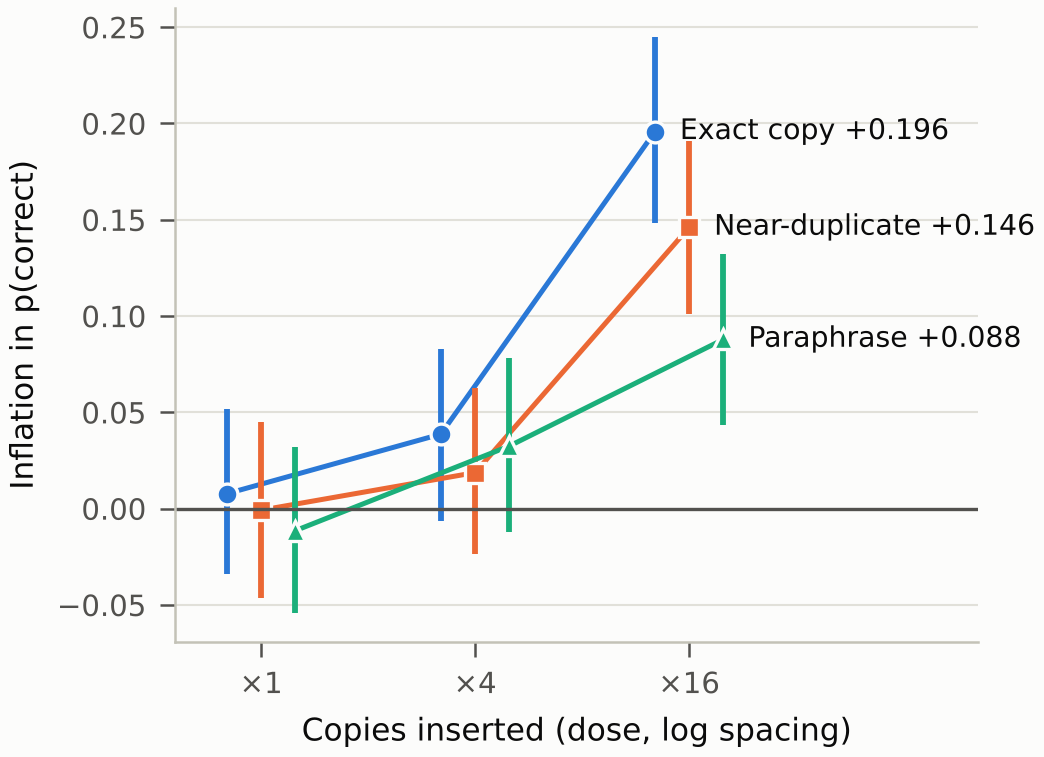
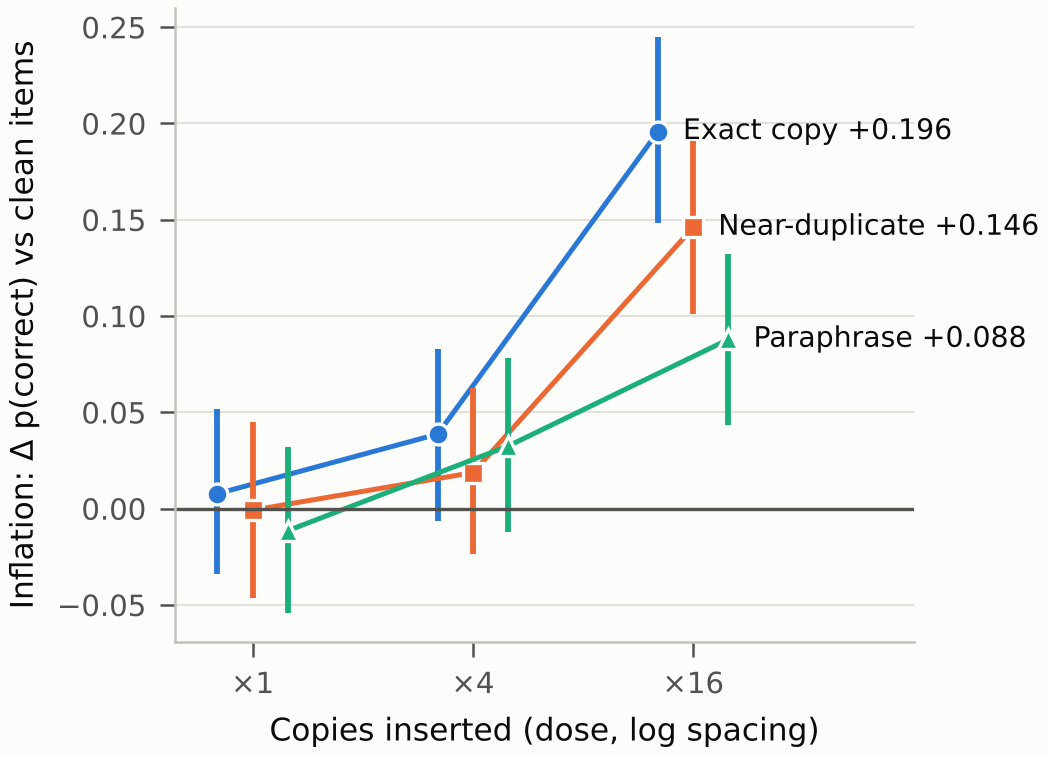
Figures: second-reader fixes (print-size text, symmetric AUROC scale, overplotting, gridlines below data, split literature and agreement figures)
- All figures drawn at their printed width so no text falls below 7 pt
- AUROC heatmap: colour scale symmetric about chance, axis titles added
- Scatter: transparency, legend matches the plotted colours, within-cell rho shown
- Within-cell forest plot: detectors named on rows, per-cell mean marked
- Cell-vs-item figure uses p(correct) like the other inflation figures
- Gridlines drawn below data everywhere; darker greys for contrast
- Literature comparison and detector agreement are now separate figures (fig10, fig14)

diff --git a/dcl/figures.py b/dcl/figures.py
@@ -36,7 +36,7 @@ DET_LS = dict(zip(DETECTORS.values(), ["-", (0, (4, 1.5)), (0, (1, 1)), (0, (5, 
 OVERLAP_HATCH = {"exact": "", "near_dup": "////", "paraphrase": "...."}
 BLUES = LinearSegmentedColormap.from_list("blues", ["#cde2fb", "#86b6ef", "#3987e5", "#1c5cab", "#0d366b"])
 DIVERGE = LinearSegmentedColormap.from_list("div", ["#e34948", "#f0efec", "#2a78d6"])
-REF_GREY, CTX_GREY, LIGHT_GREY = "#a3a29b", "#d4d3cd", "#e9e8e4"
+REF_GREY, CTX_GREY, LIGHT_GREY = "#a3a29b", "#c3c2b7", "#d9d8d2"
 CRITICAL = "#d03b3b"
 FULL, COL = 7.16, 3.5
 
@@ -47,7 +47,7 @@ def _tint(hexcol, f):
     return tuple(a * (1 - f) + b * f)
 
 
-DOSE_TINT = {1: 0.62, 4: 0.32, 16: 0.0}
+DOSE_TINT = {1: 0.5, 4: 0.25, 16: 0.0}
 
 plt.rcParams.update({
     "figure.facecolor": SURFACE, "axes.facecolor": SURFACE, "savefig.facecolor": SURFACE,
@@ -56,7 +56,7 @@ plt.rcParams.update({
     "axes.edgecolor": AXIS, "axes.labelcolor": INK, "xtick.color": INK2, "ytick.color": INK2,
     "axes.spines.top": False, "axes.spines.right": False, "axes.grid": True, "grid.color": GRID,
     "grid.linewidth": 0.5, "axes.linewidth": 0.6, "xtick.major.width": 0.6, "ytick.major.width": 0.6,
-    "legend.frameon": False, "lines.linewidth": 1.6, "figure.constrained_layout.use": True,
+    "legend.frameon": False, "axes.axisbelow": True, "lines.linewidth": 1.6, "figure.constrained_layout.use": True,
     "pdf.fonttype": 42, "ps.fonttype": 42,
 })
 
@@ -94,7 +94,7 @@ def _heat(fig, ax, M, fmt, cmap, vmin, vmax, cbar_label):
         sp.set_visible(False)
     for (i, j), v in np.ndenumerate(M.to_numpy()):
         frac = (v - vmin) / max(1e-9, vmax - vmin)
-        ax.text(j, i, fmt.format(v), ha="center", va="center", fontsize=7.5, color="white" if frac > 0.6 else INK)
+        ax.text(j, i, fmt.format(v), ha="center", va="center", fontsize=7.5, color="white" if abs(frac - 0.5) > 0.36 else INK)
     _cbar(fig, im, ax, cbar_label)
 
 
@@ -105,7 +105,8 @@ def fig_inflation_heatmap(cell, out):
     for ax, col, fmt, lab, title in [(axes[0], "infl_p", "{:+.3f}", "p(correct)", "Inflation in p(correct)"),
                                      (axes[1], "infl_acc_pts", "{:+.1f}", "accuracy points", "Inflation in accuracy points")]:
         M = _grid(c, col)
-        _heat(fig, ax, M, fmt, BLUES, min(0, float(M.min().min())), float(M.max().max()), lab)
+        m = float(np.abs(M.to_numpy()).max())
+        _heat(fig, ax, M, fmt, DIVERGE, -m, m, lab)
         ax.set_title(title, loc="left")
         ax.set_xlabel("Copies inserted (dose)")
     return _save(fig, out, "fig01_inflation_heatmap")
@@ -125,20 +126,21 @@ def fig_inflation_dose(cell, out):
                     xytext=(6, 0), textcoords="offset points", va="center", fontsize=6.8, color=INK)
     ax.axhline(0, color=INK2, lw=0.8)
     ax.set_xticks([0, 1, 2], ["×1", "×4", "×16"])
-    ax.set_xlim(-0.4, 3.35)
+    ax.set_xlim(-0.35, 3.0)
     ax.set_xlabel("Copies inserted (dose, log spacing)")
-    ax.set_ylabel("Inflation in p(correct)")
+    ax.set_ylabel("Inflation: Δ p(correct) vs clean items")
     ax.grid(axis="x", visible=False)
     return _save(fig, out, "fig02_inflation_vs_dose")
 
 
 # ------------------------------------------------------------------ RQ2 detection
 def fig_auroc_heatmap(det, out):
+    """Diverging scale symmetric about chance (0.5); colour steps are equal on both sides."""
     dets = list(DETECTORS.values())
     piv = det.pivot_table(index="detector", columns="group", values="auroc").reindex(index=dets, columns=C.CELLS)
-    fig, ax = plt.subplots(figsize=(FULL, 2.05))
+    fig, ax = plt.subplots(figsize=(5.9, 2.1))
     M = piv.to_numpy()
-    im = ax.imshow(M, cmap=DIVERGE, norm=TwoSlopeNorm(vcenter=0.5, vmin=0.3, vmax=1.0), aspect="auto")
+    im = ax.imshow(M, cmap=DIVERGE, vmin=0.1, vmax=0.9, aspect="auto")
     ax.set_xticks(range(9), ["×1", "×4", "×16"] * 3)
     ax.set_yticks(range(len(dets)), dets)
     ax.grid(False)
@@ -146,20 +148,22 @@ def fig_auroc_heatmap(det, out):
     for sp in ax.spines.values():
         sp.set_visible(False)
     for (i, j), v in np.ndenumerate(M):
-        ax.text(j, i, f"{v:.2f}", ha="center", va="center", fontsize=7, color="white" if v > 0.82 else INK)
+        ax.text(j, i, f"{v:.2f}", ha="center", va="center", fontsize=7, color="white" if v > 0.79 else INK)
     for b in (2.5, 5.5):
         ax.axvline(b, color=SURFACE, lw=3)
     for k, o in enumerate(C.OVERLAPS):
-        ax.text(3 * k + 1, -0.75, OVERLAP_LAB[o], ha="center", va="bottom", fontsize=7.5, fontweight="bold",
-                color=INK)
+        ax.text(3 * k + 1, -0.75, OVERLAP_LAB[o], ha="center", va="bottom", fontsize=7.5, fontweight="bold", color=INK)
     ax.set_ylim(len(dets) - 0.5, -1.05)
-    _cbar(fig, im, ax, "AUROC (0.5 = chance)")
+    ax.set_xlabel("Copies inserted (dose) within each overlap type")
+    ax.set_ylabel("Detector")
+    cb = _cbar(fig, im, ax, "AUROC (0.5 = chance)")
+    cb.set_ticks([0.1, 0.3, 0.5, 0.7, 0.9])
     return _save(fig, out, "fig03_auroc_heatmap")
 
 
 def fig_roc_curves(avg, out):
     clean = avg[avg["group"] == "clean"]
-    fig, axes = plt.subplots(1, 3, figsize=(FULL, 2.55), sharey=True)
+    fig, axes = plt.subplots(1, 3, figsize=(5.6, 2.35), sharey=True)
     for ax, o in zip(axes, C.OVERLAPS):
         d = avg[avg["group"] == f"{o}_x16"]
         y = np.r_[np.ones(len(d)), np.zeros(len(clean))]
@@ -169,67 +173,79 @@ def fig_roc_curves(avg, out):
         ax.plot([0, 1], [0, 1], color=MUTED, lw=0.8, ls=(0, (3, 2)))
         ax.set_title(f"{OVERLAP_LAB[o]}, ×16", loc="left")
         ax.set_xlabel("False positive rate")
-        ax.set_aspect("equal")
+        ax.set_xlim(0, 1); ax.set_ylim(0, 1)
+        ax.set_xticks([0, 0.5, 1]); ax.set_yticks([0, 0.5, 1])
+        ax.set_box_aspect(1)
     axes[0].set_ylabel("True positive rate")
-    axes[-1].legend(loc="lower right", handlelength=1.4)
+    fig.legend(*axes[0].get_legend_handles_labels(), loc="outside lower center", ncol=5, handlelength=2.2)
     return _save(fig, out, "fig04_roc_curves")
 
 
 # ------------------------------------------------------------------ RQ3 item-level link
 def fig_scatter(avg, out, det="det_minkpp"):
     """Hue = overlap type, lightness = dose; ink line = mean inflation in score deciles (all doses)."""
-    fig, axes = plt.subplots(1, 3, figsize=(FULL, 2.55), sharey=True)
+    from matplotlib.legend_handler import HandlerTuple
+    fig, axes = plt.subplots(1, 3, figsize=(FULL, 2.6), sharey=True)
     lab = DETECTORS[det]
     shown = avg[avg["group"].isin(["clean"] + [f"{o}_x{d}" for o in C.OVERLAPS for d in C.DOSES])]
     lo, hi = shown[det].quantile([0.005, 0.995])
     pad = 0.05 * (hi - lo)
     cl = avg[avg["group"] == "clean"]
     for ax, o in zip(axes, C.OVERLAPS):
-        ax.scatter(cl[det], cl["infl_p"], s=5, color=LIGHT_GREY, edgecolor="none", label="clean", zorder=1)
+        ax.scatter(cl[det], cl["infl_p"], s=4, color=REF_GREY, alpha=0.35, edgecolor="none", zorder=1)
         cont = avg[avg["overlap"] == o]
         for dose in C.DOSES:
             d = cont[cont["dose"] == dose]
-            ax.scatter(d[det], d["infl_p"], s=7, color=_tint(OVERLAP_COL[o], DOSE_TINT[dose]), edgecolor="none",
-                       label=f"×{dose}", zorder=2 + dose / 100)
+            ax.scatter(d[det], d["infl_p"], s=5, color=_tint(OVERLAP_COL[o], DOSE_TINT[dose]), alpha=0.6,
+                       edgecolor="none", zorder=2 + dose / 100)
         q = pd.qcut(cont[det], 10, labels=False, duplicates="drop")
         b = cont.groupby(q).agg(x=(det, "median"), y=("infl_p", "mean"))
-        ax.plot(b["x"], b["y"], color=INK, lw=1.3, marker="o", ms=2.8, zorder=5, label="decile mean")
+        ax.plot(b["x"], b["y"], color=INK, lw=1.4, marker="o", ms=2.8, zorder=5)
         ax.axhline(0, color=INK2, lw=0.7, zorder=0)
-        rho = stats.spearmanr(cont[det], cont["infl_p"]).statistic
-        ax.set_title(f"{OVERLAP_LAB[o]}  (pooled ρ = {rho:.2f})", loc="left")
+        within = np.mean([stats.spearmanr(g[det], g["infl_p"]).statistic for _, g in cont.groupby("dose")])
+        ax.set_title(OVERLAP_LAB[o], loc="left")
+        ax.text(0.02, 0.97, f"mean within-cell ρ = {within:.2f}", transform=ax.transAxes, va="top", fontsize=7,
+                color=INK, bbox=dict(boxstyle="round,pad=0.2", fc=SURFACE, ec="none", alpha=0.85), zorder=6)
         ax.set_xlabel(f"{lab} score (higher = 'seen')")
         ax.set_xlim(lo - pad, hi + pad)
-    axes[0].set_ylabel("Item inflation in p(correct)")
-    h = [plt.Line2D([], [], ls="", marker="o", ms=4, color=LIGHT_GREY, label="clean (never inserted)")]
-    h += [plt.Line2D([], [], ls="", marker="o", ms=4, color=_tint(MUTED, DOSE_TINT[d]) if d < 16 else INK2,
-                     label=f"×{d}") for d in C.DOSES]
-    h += [plt.Line2D([], [], color=INK, lw=1.3, marker="o", ms=2.8, label="decile mean")]
-    fig.legend(handles=h, loc="outside lower center", ncol=5, handletextpad=0.3, columnspacing=1.2,
-               title="dose = lightness of the panel colour", title_fontsize=6.5)
+    axes[0].set_ylabel("Item inflation, Δ p(correct)")
+    mk = lambda c: plt.Line2D([], [], ls="", marker="o", ms=4, color=c)
+    h = [mk(REF_GREY)] + [tuple(mk(_tint(OVERLAP_COL[o], DOSE_TINT[d])) for o in C.OVERLAPS) for d in C.DOSES]
+    h += [plt.Line2D([], [], color=INK, lw=1.4, marker="o", ms=2.8)]
+    fig.legend(h, ["clean (never inserted)", "×1", "×4", "×16", "decile mean"], loc="outside lower center", ncol=5,
+               handler_map={tuple: HandlerTuple(ndivide=None, pad=0.2)}, handletextpad=0.4, columnspacing=1.4)
     return _save(fig, out, f"fig05_scatter_{det.replace('det_', '')}")
 
 
 def fig_forest(agr, out):
     w = agr[agr["scope"] == "within cell"].copy()
-    fig, axes = plt.subplots(1, 3, figsize=(FULL, 2.7), sharex=True, sharey=True)
+    fig, axes = plt.subplots(1, 3, figsize=(5.9, 3.3), sharex=True, sharey=True)
     dets = list(DETECTORS.values())
+    step = len(dets) + 1.5
     for ax, o in zip(axes, C.OVERLAPS):
         for k, dose in enumerate(C.DOSES):
             g = f"{o}_x{dose}"
+            sub = w[w["group"] == g]
             for j, dl in enumerate(dets):
-                r = w[(w["group"] == g) & (w["detector"] == dl)].iloc[0]
-                y = k * (len(dets) + 1.5) + j
+                r = sub[sub["detector"] == dl].iloc[0]
+                y = k * step + j
                 ax.plot([r["rho_lo"], r["rho_hi"]], [y, y], color=DET_COL[dl], lw=1.3)
                 ax.plot(r["rho"], y, DET_MARK[dl], color=DET_COL[dl], ms=3.8, mec=SURFACE, mew=0.6)
+            m = sub["rho"].mean()
+            ax.plot([m, m], [k * step - 0.6, k * step + len(dets) - 0.4], color=INK, lw=1.0)
         ax.axvline(0, color=INK2, lw=0.8)
-        ax.set_yticks([k * (len(dets) + 1.5) + 2 for k in range(3)], [f"×{d}" for d in C.DOSES])
         ax.set_title(OVERLAP_LAB[o], loc="left")
-        ax.set_xlabel("Spearman ρ, score vs inflation")
+        ax.set_xlabel("Spearman ρ")
         ax.grid(axis="y", visible=False)
         ax.tick_params(axis="y", length=0)
-        ax.invert_yaxis()
-    handles = [plt.Line2D([], [], color=DET_COL[d], marker=DET_MARK[d], ms=3.8, lw=1.3, label=d) for d in dets]
-    fig.legend(handles=handles, loc="outside lower center", ncol=5)
+    ticks = [k * step + j for k in range(3) for j in range(len(dets))]
+    axes[0].set_yticks(ticks, [f"{d}" for _ in C.DOSES for d in dets], fontsize=6.5)
+    axes[0].invert_yaxis()
+    for k, dose in enumerate(C.DOSES):
+        axes[-1].text(1.03, k * step + 2, f"×{dose}", transform=axes[-1].get_yaxis_transform(), va="center",
+                      fontsize=7.5, fontweight="bold", color=INK)
+    fig.legend(handles=[plt.Line2D([], [], color=INK, lw=1.0, label="mean of the 5 detectors in that cell")],
+               loc="outside lower center", fontsize=6.5, handlelength=1.2)
     return _save(fig, out, "fig06_within_cell_rho")
 
 
@@ -241,15 +257,18 @@ def fig_cell_vs_item(cell, det, agr, out, det_name="Min-K%++"):
     c = cell[cell["dose"] > 0].set_index("group")
     for o in C.OVERLAPS:
         g = [f"{o}_x{d}" for d in C.DOSES]
-        ax.plot(c.loc[g, "infl_acc_pts"], a.loc[g], color=OVERLAP_COL[o], lw=1, alpha=0.6, zorder=1)
-        ax.scatter(c.loc[g, "infl_acc_pts"], a.loc[g], s=26, color=OVERLAP_COL[o], marker=OVERLAP_MARK[o],
+        ax.plot(c.loc[g, "infl_p"], a.loc[g], color=OVERLAP_COL[o], lw=1.1, zorder=1)
+        ax.scatter(c.loc[g, "infl_p"], a.loc[g], s=26, color=OVERLAP_COL[o], marker=OVERLAP_MARK[o],
                    edgecolor=SURFACE, linewidth=0.8, zorder=3, label=OVERLAP_LAB[o])
-        ax.annotate("×16", (c.loc[g[-1], "infl_acc_pts"], a.loc[g[-1]]), xytext=(5, 2),
-                    textcoords="offset points", fontsize=6.5, color=INK2)
-    rho_cells = stats.spearmanr(c.loc[a.index.intersection(c.index), "infl_acc_pts"],
+        for gg, d in ((g[-1], 16),):
+            ax.annotate(f"×{d}", (c.loc[gg, "infl_p"], a.loc[gg]), xytext=(4, 3) if d == 16 else (-4, 4),
+                        ha="left" if d == 16 else "right", textcoords="offset points", fontsize=6.5, color=INK2)
+    rho_cells = stats.spearmanr(c.loc[a.index.intersection(c.index), "infl_p"],
                                 a.loc[a.index.intersection(c.index)]).statistic
     ax.axhline(0.5, color=MUTED, lw=0.8, ls=(0, (3, 2)))
-    ax.set_xlabel("Cell inflation (accuracy points)")
+    ax.text(0.99, 0.5, "chance", transform=ax.get_yaxis_transform(), va="bottom", ha="right",
+            fontsize=6.5, color=MUTED)
+    ax.set_xlabel("Cell inflation, Δ p(correct)")
     ax.set_ylabel(f"{det_name} AUROC")
     ax.set_title(f"Across the 9 cells: ρ = {rho_cells:.2f}", loc="left")
     ax.legend(loc="lower right", handletextpad=0.2, title="each line: ×1 → ×4 → ×16", title_fontsize=6.5)
@@ -300,7 +319,11 @@ def fig_predictor(pred, out, extended=None):
     ax.set_yticks(y, [d[0] for d in data])
     ax.set_xlabel("Cross-validated R² (item inflation)")
     ax.set_xlim(0, 0.42)
-    ax.grid(axis="y", visible=False)
+    ax.grid(False)
+    ax.set_xticks([0, 0.1, 0.2, 0.3, 0.4])
+    for i, (_, v, r) in enumerate(data):
+        if abs(v) < 0.005:
+            ax.plot([0, 0], [i - 0.31, i + 0.31], color=REF_GREY if r else INK2, lw=2)
     ax.tick_params(axis="y", length=0)
     ax.legend(handles=[plt.Rectangle((0, 0), 1, 1, color=INK2, label="uses detector scores"),
                        plt.Rectangle((0, 0), 1, 1, color=REF_GREY, label="reference predictor")],
@@ -316,7 +339,7 @@ ABL_LAB = {"seed1": "Main (seed 1)", "qonly": "Question only", "dilution": "Half
 def fig_ablation(abl, out):
     runs = [r for r in ABL_LAB if r in set(abl["run"])]
     a = abl.set_index("run").loc[runs]
-    fig, axes = plt.subplots(1, 2, figsize=(FULL, 2.45))
+    fig, axes = plt.subplots(1, 2, figsize=(7.0, 2.45))
     x = np.arange(len(runs))
     w = 0.26
     for k, o in enumerate(C.OVERLAPS):
@@ -327,10 +350,11 @@ def fig_ablation(abl, out):
     axes[0].set_ylabel("Inflation (accuracy points)")
     axes[0].set_title("Inflation, mean over doses", loc="left")
     axes[0].axhline(0, color=INK2, lw=0.8)
-    axes[1].set_ylabel("Min-K%++ AUROC at ×16")
+    axes[1].set_ylabel("Min-K%++ AUROC at ×16\n(bars measured from chance)")
+    axes[0].set_yticks(np.arange(-2, 15, 2))
     axes[1].axhline(0.5, color=INK2, lw=0.8)
     axes[1].set_ylim(0.45, 1.0)
-    axes[1].set_title("Detection of 16-copy items (baseline 0.5 = chance)", loc="left")
+    axes[1].set_title("Detection of 16-copy items", loc="left")
     for ax in axes:
         ax.set_xticks(x, [ABL_LAB[r] for r in runs])
         ax.grid(axis="x", visible=False)
@@ -343,7 +367,7 @@ def fig_ablation(abl, out):
 # ------------------------------------------------------------------ error analysis
 def fig_errors(counts, by_overlap, out):
     """Emphasis on misses (status red); everything else in neutral greys."""
-    fig, axes = plt.subplots(1, 2, figsize=(FULL, 2.3), gridspec_kw={"width_ratios": [1, 1.15]})
+    fig, axes = plt.subplots(1, 2, figsize=(6.6, 2.35), gridspec_kw={"width_ratios": [1, 1.15]})
     order = [o for o in ["hit", "false alarm", "miss", "neither"] if o in counts.index]
     shades = {"hit": INK2, "false alarm": REF_GREY, "miss": CRITICAL, "neither": LIGHT_GREY}
     bo = by_overlap.reindex(index=C.OVERLAPS, columns=order, fill_value=0)
@@ -357,14 +381,14 @@ def fig_errors(counts, by_overlap, out):
         ax.text(infl.loc[o].sum() + 3, i, f"{share_missed[o]:.0%} missed", va="center", fontsize=7, color=INK)
     ax.set_yticks(yy, [OVERLAP_LAB[o] for o in C.OVERLAPS])
     ax.invert_yaxis()
-    ax.set_xlim(0, 205)
+    ax.set_xlim(0, 192)
     ax.set_xlabel("Inflated contaminated items")
     ax.set_title("Inflated items: caught vs missed", loc="left")
     ax.legend(loc="upper center", bbox_to_anchor=(0.5, -0.28), ncol=2, handlelength=1, handleheight=0.8)
     ax = axes[1]
     mt = [m for m in ["recitation", "reconstruction", "recollection"] if m in counts.columns]
     tot = counts.loc[order, mt].sum(1)
-    mshade = {"recitation": INK2, "reconstruction": REF_GREY, "recollection": CTX_GREY}
+    mshade = {"recitation": INK, "reconstruction": INK2, "recollection": REF_GREY}
     left = np.zeros(len(order))
     for m in mt:
         v = counts.loc[order, m].to_numpy() / tot.to_numpy()
@@ -388,38 +412,46 @@ def fig_errors(counts, by_overlap, out):
 
 # ------------------------------------------------------------------ comparison with literature
 def fig_literature(det, inter, out):
-    fig, axes = plt.subplots(1, 2, figsize=(FULL, 2.6), gridspec_kw={"width_ratios": [1.3, 1]})
-    ax = axes[0]
-    ref = [("Fu et al.: pretraining data", 0.49, 0.53), ("Min-K%++ paper: MIMIR", 0.52, 0.59),
-           ("FSD paper: Pile, after FSD", 0.57, 0.63), ("Fu et al.: fine-tuning data", 0.41, 0.994)]
+    fig, ax = plt.subplots(figsize=(COL, 2.05))
+    ref = [("Fu et al.: pretraining", 0.49, 0.53), ("Min-K%++ paper: MIMIR", 0.52, 0.59),
+           ("FSD paper: Pile", 0.57, 0.63), ("Fu et al.: fine-tuning", 0.41, 0.994)]
     for i, (lab, lo, hi) in enumerate(ref):
-        ax.plot([lo, hi], [i, i], color=REF_GREY, lw=4.5, solid_capstyle="round")
+        ax.plot([lo, hi], [i, i], color=REF_GREY, lw=4.5, solid_capstyle="butt")
     ours = det.groupby("overlap")["auroc"].agg(["min", "max"]).reindex(C.OVERLAPS)
     for k, o in enumerate(C.OVERLAPS):
         i = len(ref) + k + 0.4
-        ax.plot([ours.loc[o, "min"], ours.loc[o, "max"]], [i, i], color=OVERLAP_COL[o], lw=4.5, solid_capstyle="round")
+        ax.plot([ours.loc[o, "min"], ours.loc[o, "max"]], [i, i], color=OVERLAP_COL[o], lw=4.5, solid_capstyle="butt")
     ax.set_yticks([*range(len(ref)), *[len(ref) + k + 0.4 for k in range(3)]],
                   [r[0] for r in ref] + [f"This study: {OVERLAP_LAB[o].lower()}" for o in C.OVERLAPS])
     ax.axvline(0.5, color=MUTED, lw=0.8, ls=(0, (3, 2)))
-    ax.set_xlabel("AUROC range (reported vs this study)")
+    ax.text(0.5, -0.75, "chance", ha="center", va="bottom", fontsize=6.5, color=MUTED)
+    ax.set_xlabel("Reported AUROC range")
+    ax.set_xlim(0.38, 1.02)
     ax.invert_yaxis()
     ax.grid(axis="y", visible=False)
     ax.tick_params(axis="y", length=0)
-    ax.set_title("Detection AUROC: literature (grey) vs this study", loc="left")
-    ax = axes[1]
-    M = inter.to_numpy()
-    im = ax.imshow(M, cmap=DIVERGE, vmin=-1, vmax=1)
-    ax.set_xticks(range(len(inter)), inter.columns, rotation=35, ha="right")
-    ax.set_yticks(range(len(inter)), inter.index)
+    p1 = _save(fig, out, "fig10_literature_comparison")
+
+    fig, ax = plt.subplots(figsize=(COL, 2.0))
+    M = inter.to_numpy().astype(float)
+    n = len(inter)
+    mask = np.triu(np.ones_like(M, dtype=bool))
+    shown = np.ma.array(M, mask=mask)
+    greys = LinearSegmentedColormap.from_list("g", ["#f0efec", "#52514e"])
+    im = ax.imshow(shown, cmap=greys, vmin=0, vmax=1)
+    ax.set_xticks(range(n - 1), inter.columns[:-1], rotation=30, ha="right")
+    ax.set_yticks(range(1, n), inter.index[1:])
+    ax.set_xlim(-0.5, n - 1.5); ax.set_ylim(n - 0.5, 0.5)
     ax.grid(False)
     ax.tick_params(length=0)
     for sp in ax.spines.values():
         sp.set_visible(False)
     for (i, j), v in np.ndenumerate(M):
-        ax.text(j, i, f"{v:.2f}", ha="center", va="center", fontsize=6.5, color="white" if abs(v) > 0.7 else INK)
-    ax.set_title("Detector agreement (Spearman)", loc="left")
-    _cbar(fig, im, ax, "ρ (Samuel et al.: −0.20 to 0.32)")
-    return _save(fig, out, "fig10_literature_comparison")
+        if i > j:
+            ax.text(j, i, f"{v:.2f}", ha="center", va="center", fontsize=7, color="white" if v > 0.55 else INK)
+    _cbar(fig, im, ax, "Spearman ρ between detectors")
+    _save(fig, out, "fig14_detector_agreement")
+    return p1
 
 
 def fig_control(ctrl, out):
@@ -433,6 +465,8 @@ def fig_control(ctrl, out):
         ax.text(x + 0.2, i, f"{x:+.1f}", va="center", fontsize=6.8)
     ax.invert_yaxis()
     ax.set_xlim(0, 17.5)
+    ax.grid(False)
+    ax.set_title("Same gain with no inserted items", loc="left", fontsize=7.5)
     ax.set_xlabel("Accuracy gain on never-inserted items (points)")
     ax.grid(axis="y", visible=False)
     ax.tick_params(axis="y", length=0)
@@ -444,20 +478,23 @@ def fig_training_loss(root, out):
     files = sorted(Path(root, "results").glob("*_trainloss.csv"))
     if not files:
         return None
-    fig, ax = plt.subplots(figsize=(COL, 2.1))
+    fig, ax = plt.subplots(figsize=(COL, 1.8))
     for f in files:
         d = pd.read_csv(f)
         name = f.stem.replace("_trainloss", "")
         y = d["loss"].rolling(10, min_periods=1).mean()
         short = name in ("pilot", "dilution")
-        ax.plot(d["step"], y, lw=0.9 if not short else 1.1, color=REF_GREY if not short else INK2,
+        ax.plot(d["step"], y, lw=0.9 if not short else 1.2,
+                color=REF_GREY if not short else {"pilot": INK, "dilution": "#8a3b12"}[name],
                 alpha=0.9, zorder=2 if short else 1)
         if short:
             ax.annotate({"pilot": "pilot (1M filler)", "dilution": "half filler"}[name], (d["step"].iloc[-1], y.iloc[-1]),
-                        xytext=(4, -10), textcoords="offset points", fontsize=6.5, color=INK,
+                        xytext=(4, -10), textcoords="offset points", fontsize=6.5,
+                        color={"pilot": INK, "dilution": "#8a3b12"}[name],
                         bbox=dict(boxstyle="round,pad=0.15", fc=SURFACE, ec="none", alpha=0.9))
     ax.plot([], [], color=REF_GREY, lw=0.9, label="seeds 1–3, control, question-only, rank 8")
-    ax.legend(loc="upper right", fontsize=6.3)
+    ax.legend(loc="upper right", fontsize=6.5)
+    ax.grid(axis="x", visible=False)
     ax.set_xlabel("Optimiser step")
     ax.set_ylabel("Training loss (10-step mean)")
     return _save(fig, out, "fig12_training_loss")
